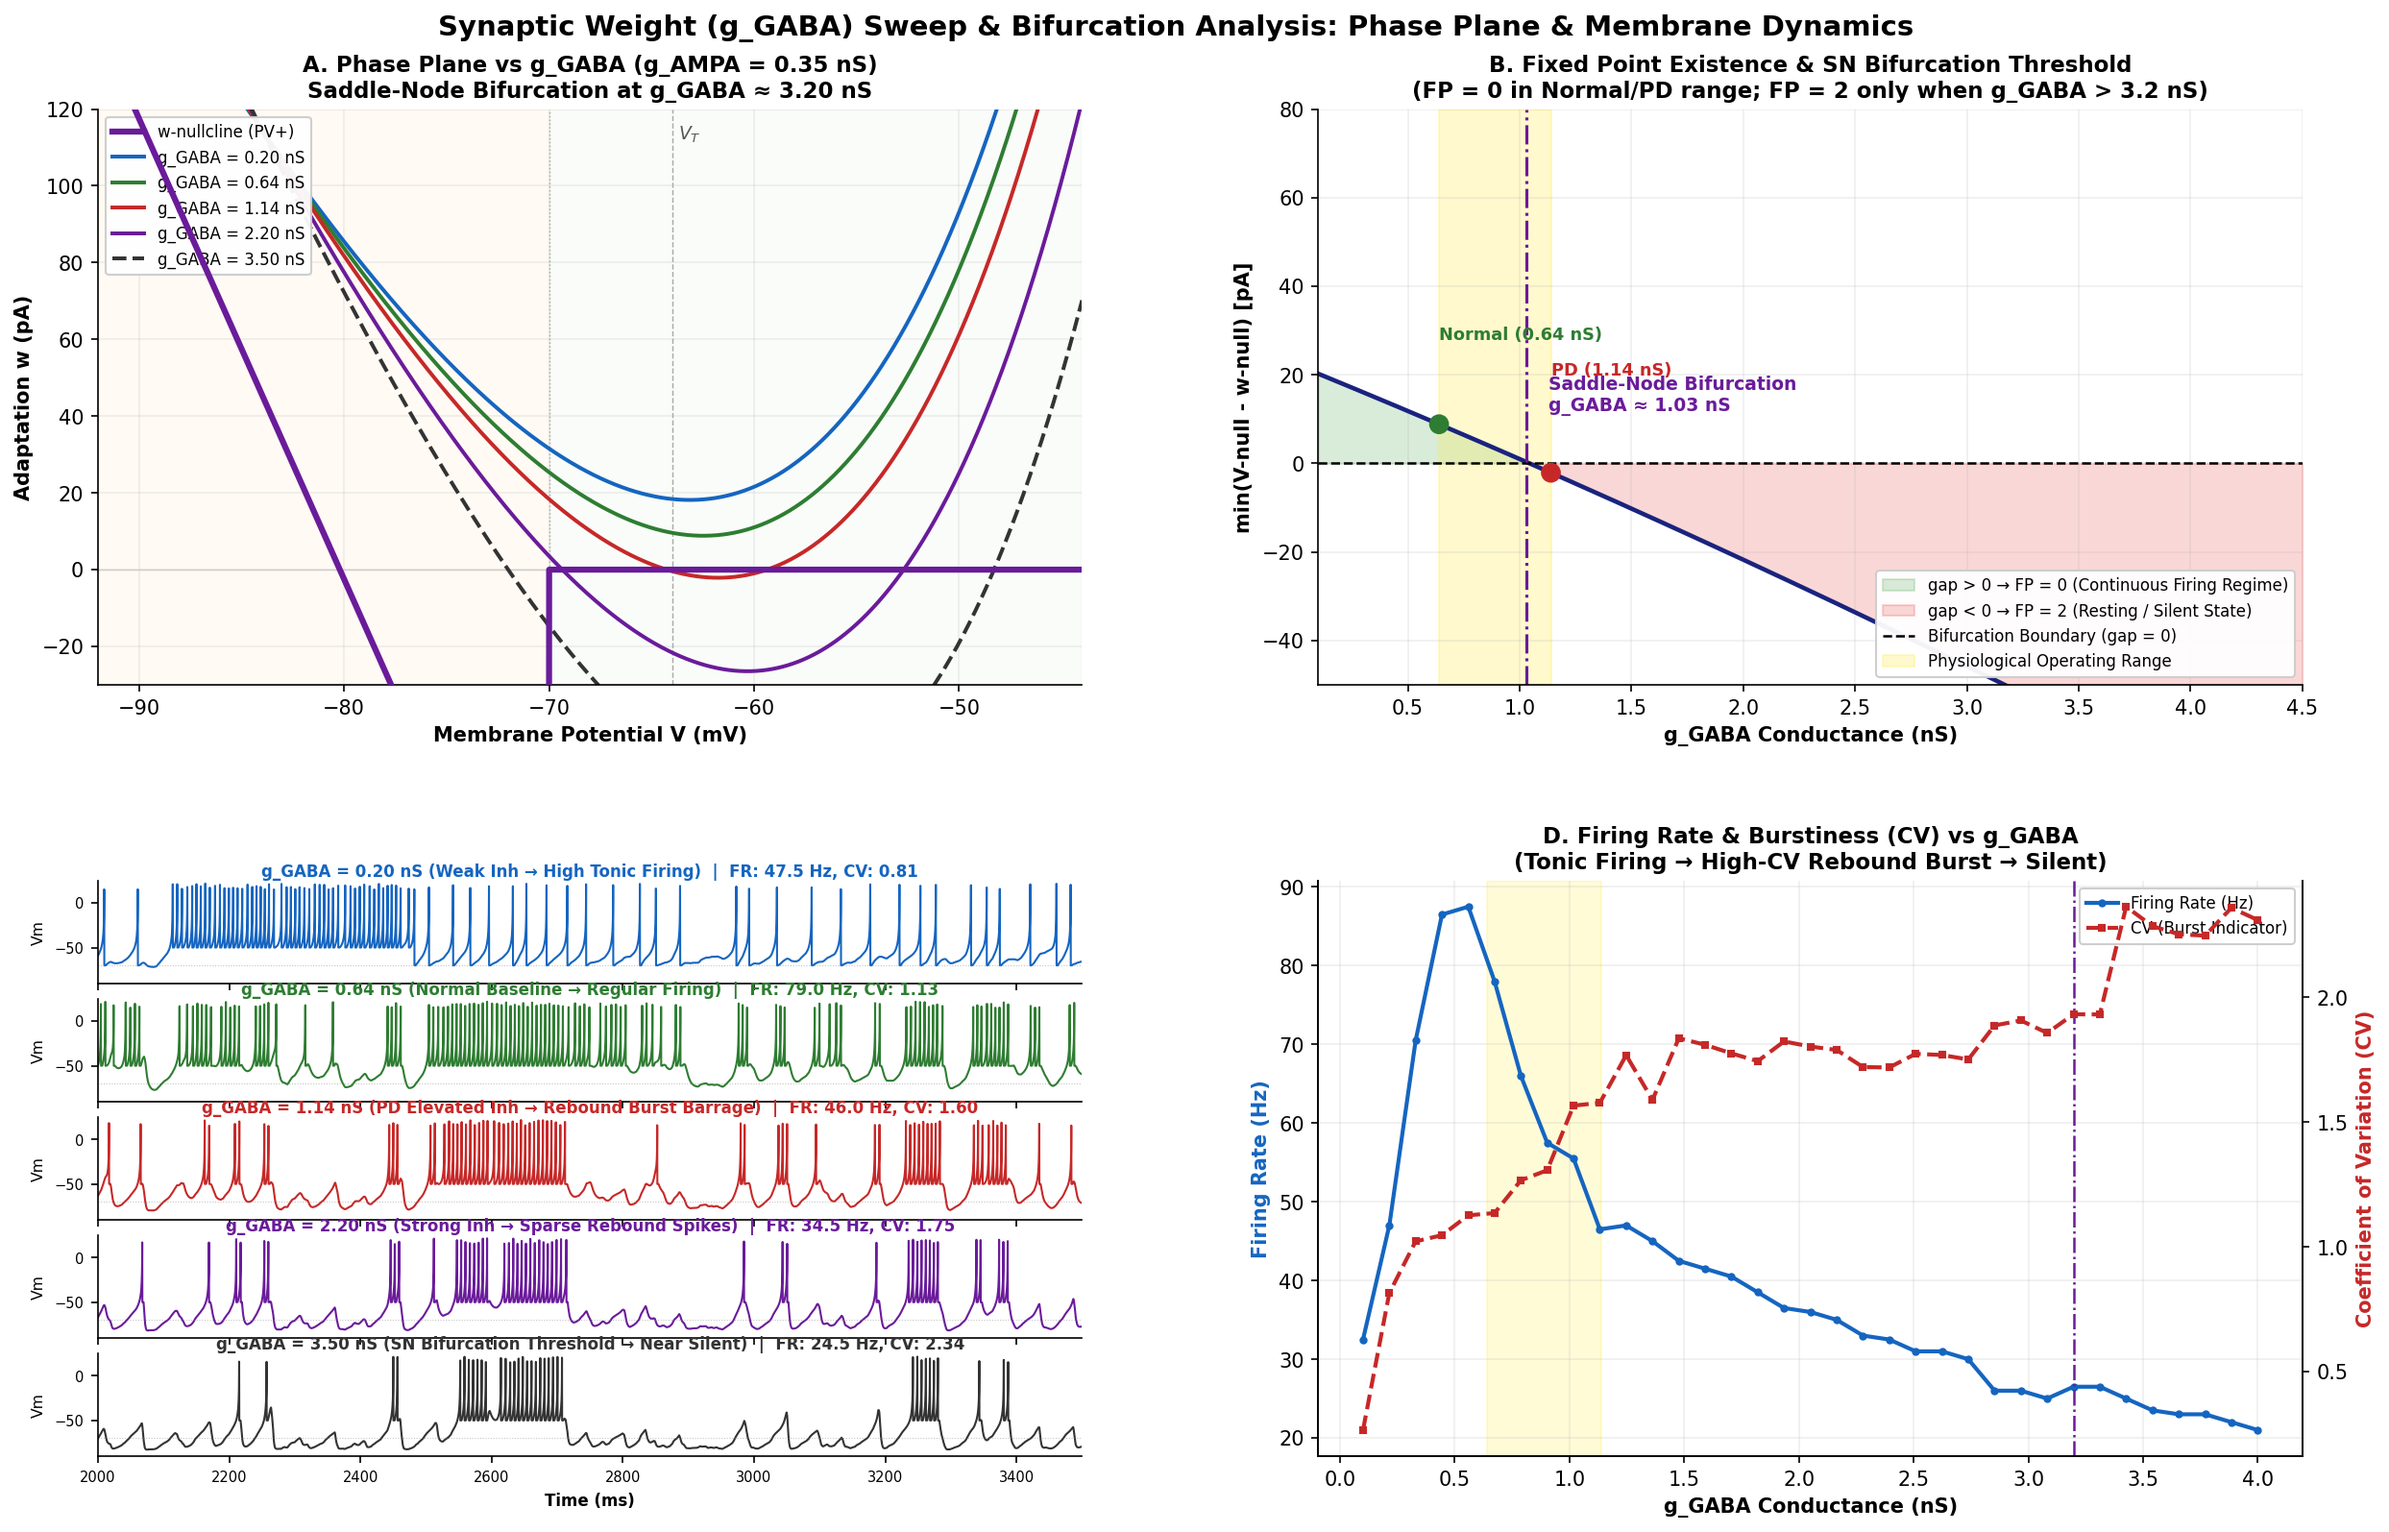
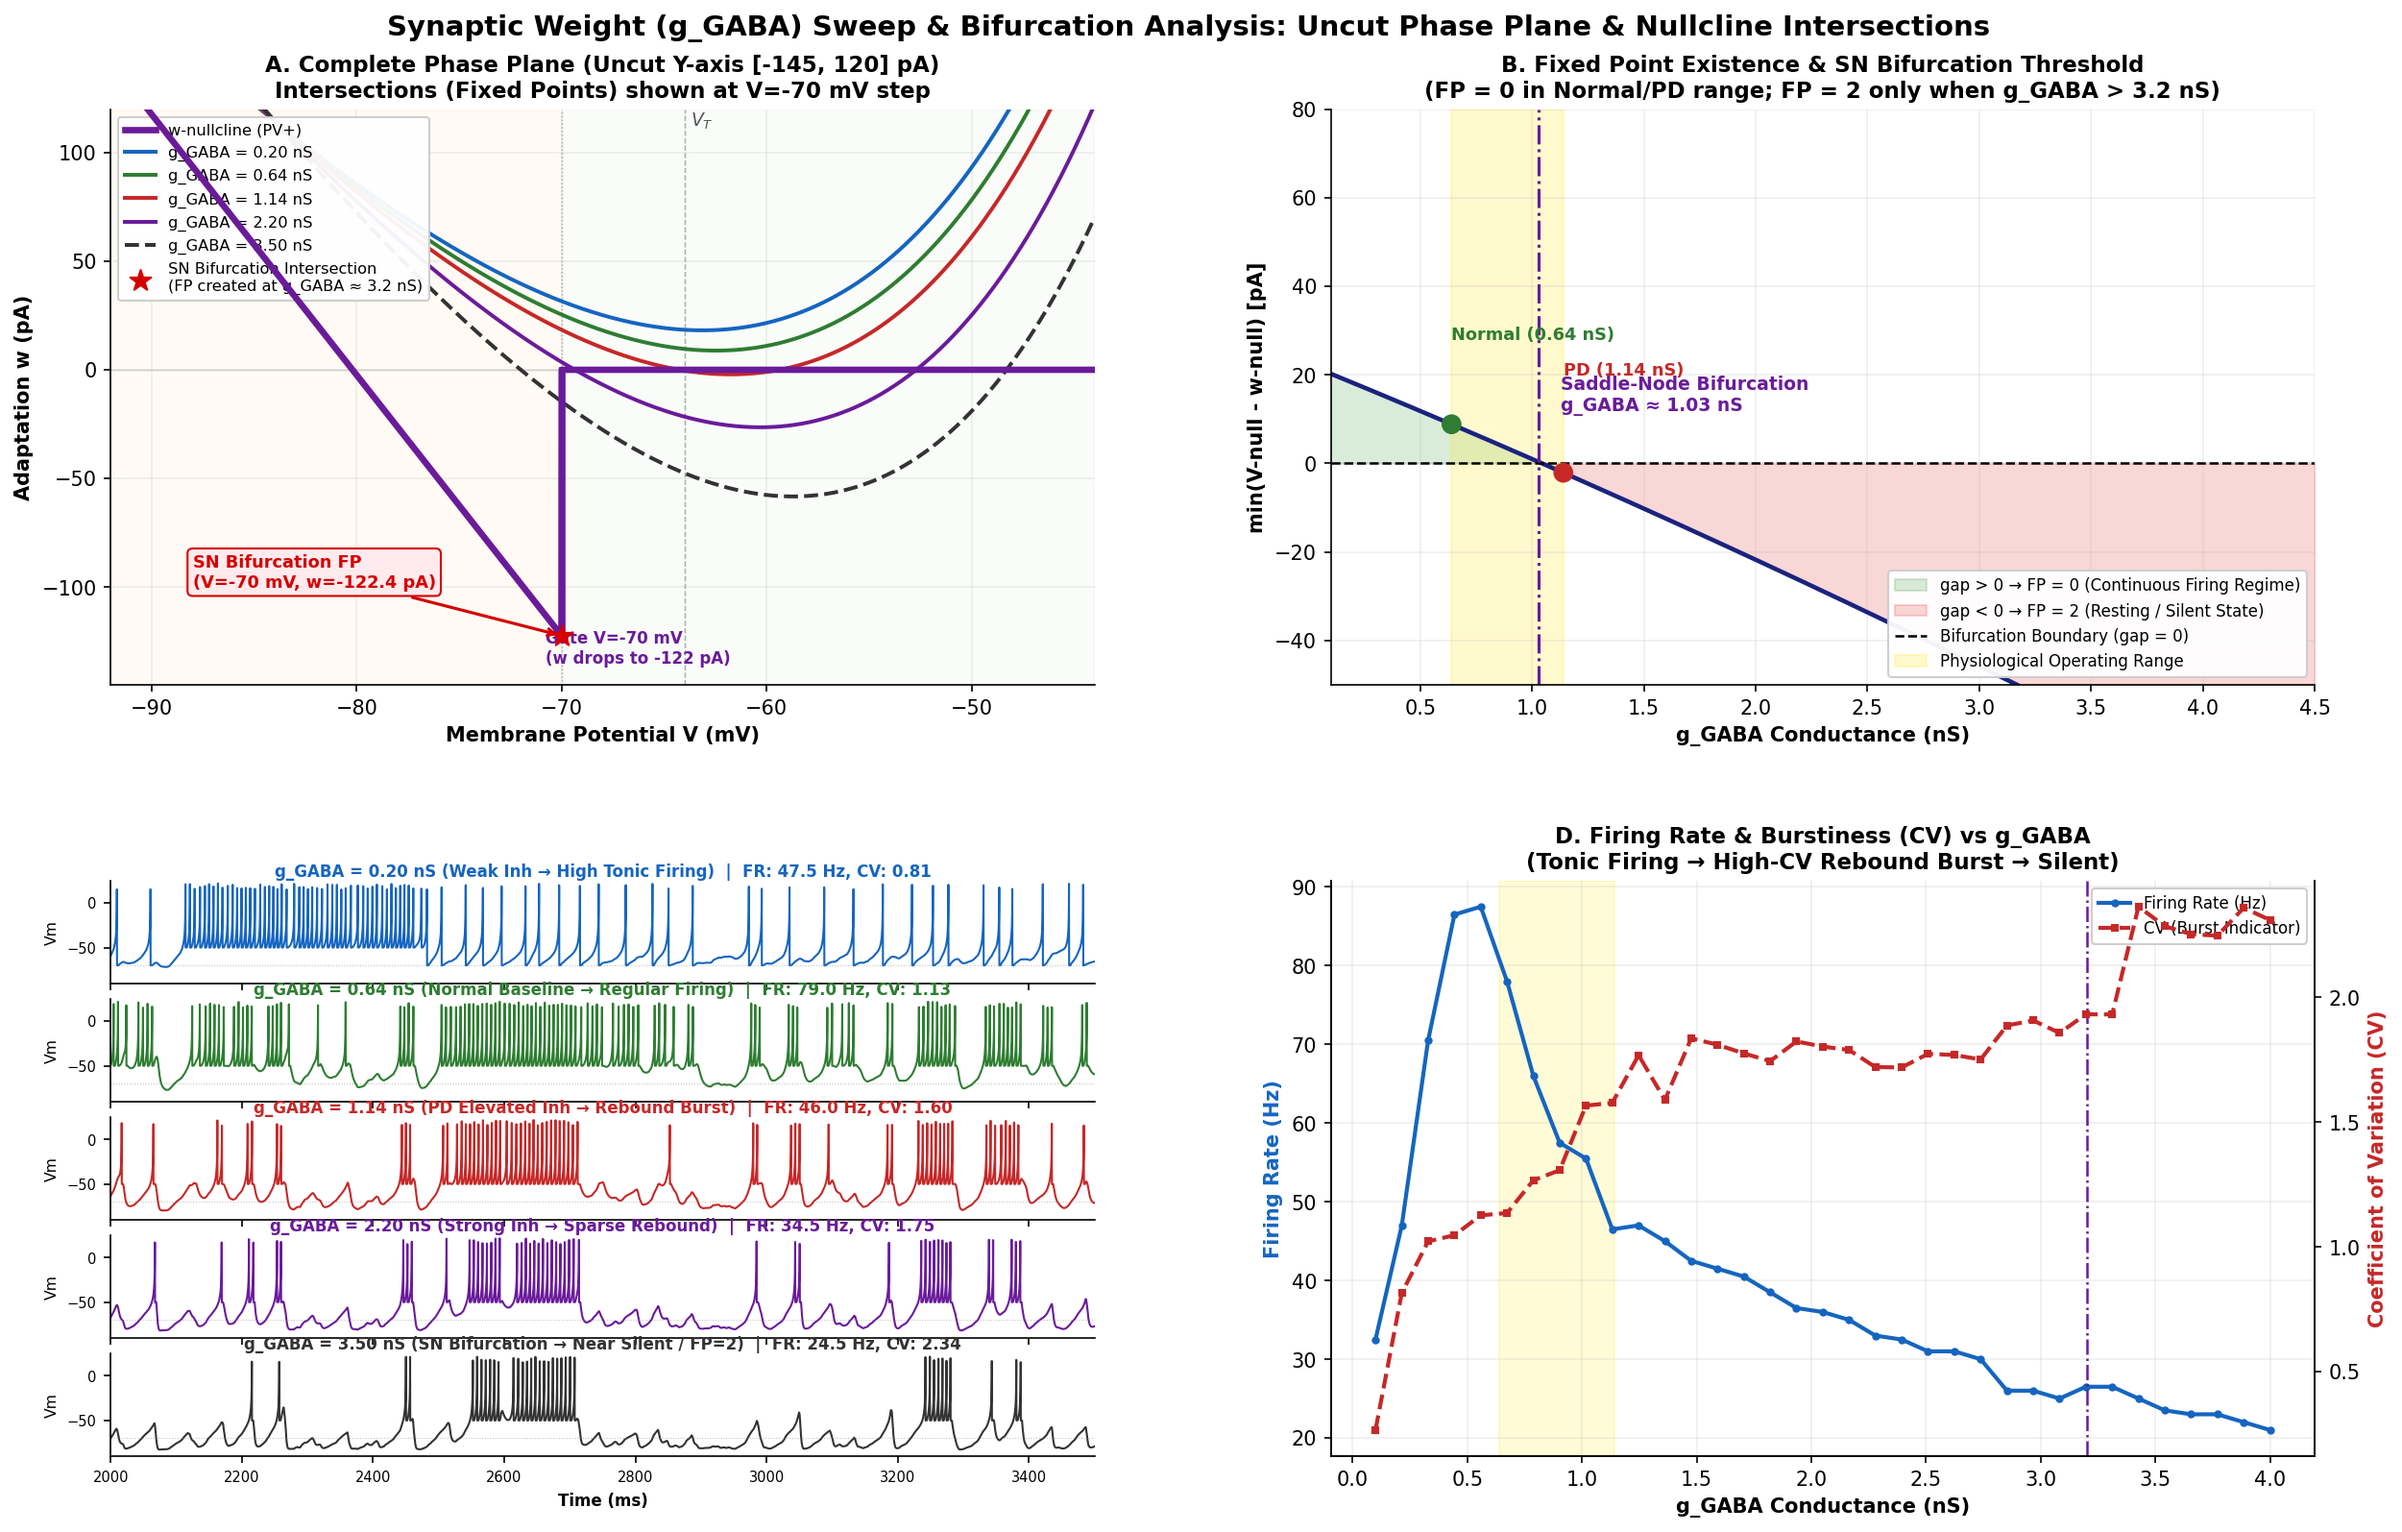
Fix phase plane Y-axis truncation: show full [-145, 120] pA range & exact FP intersection point at V=-70 mV

diff --git a/Downloads/stn_burst_project/plot_ggaba_bifurcation_analysis.py b/Downloads/stn_burst_project/plot_ggaba_bifurcation_analysis.py
@@ -3,7 +3,9 @@
 plot_ggaba_bifurcation_analysis.py
 
 Synaptic Conductance (g_GABA) Sweep & Bifurcation Analysis:
-1. Phase Plane: V-nullcline vs w-nullcline for g_GABA = 0.25, 0.64 (Normal), 1.14 (PD), 3.20 nS (SN Bifurcation threshold).
+1. Phase Plane: V-nullcline vs w-nullcline for g_GABA = 0.20, 0.64 (Normal), 1.14 (PD), 3.20 & 3.50 nS (SN Bifurcation threshold).
+   - Full y-axis range [-140, 120] to clearly show the full w-nullcline step down to -122.4 pA at V = -70 mV.
+   - Shows exact intersection points (Fixed Points) where parabola meets the purple line.
 2. Gap vs g_GABA: Demonstrates Saddle-Node Bifurcation at g_GABA ≈ 3.20 nS (where FP count goes 0 -> 2).
 3. Membrane Potential Traces V(t): Shows Tonic -> Rebound Burst Cluster -> Silent regime changes as g_GABA varies.
 4. Quantitative Firing Rate & CV curves vs g_GABA.
@@ -29,7 +31,7 @@ from pd_input_patterns import generate_scenario
 # AdEx Base Constants (Lindahl 2016)
 g_L = 10.0; E_L = -80.2; V_T = -64.0; dT = 16.2
 a_PVp = -12.0; GATE = -70.0; E_AMPA = 0.0; E_GABA = -84.0
-V = np.linspace(-92, -44, 3000)
+V = np.linspace(-92, -44, 4000)
 
 w_ampa_fixed = 0.35
 
@@ -39,11 +41,12 @@ def v_null(gG, gA=w_ampa_fixed, I=0.0):
             + gA*(E_AMPA-V) + gG*(E_GABA-V) + I)
 
 def w_null_pvp():
+    # w = a*(V - E_L) for V < GATE, 0 for V >= GATE
     return np.where(V < GATE, a_PVp*(V - E_L), 0.0)
 
 ww = w_null_pvp()
 
-# Generate inputs from Scenario 13 (Multi-ref Synthesis PD: GPe 14.6Hz with beta oscillation + CTX 250Hz)
+# Generate inputs from Scenario 13 (Multi-ref Synthesis PD)
 TOTAL_MS = 3500.0
 T_START, T_END = 2000.0, 3500.0
 gpe_spikes_p, ctx_spikes_p, weights_p, _ = generate_scenario(13, total_ms=TOTAL_MS, seed=42)
@@ -55,9 +58,9 @@ g_gaba_list = [0.20, 0.64, 1.14, 2.20, 3.50]
 labels_list = [
     "g_GABA = 0.20 nS (Weak Inh → High Tonic Firing)",
     "g_GABA = 0.64 nS (Normal Baseline → Regular Firing)",
-    "g_GABA = 1.14 nS (PD Elevated Inh → Rebound Burst Barrage)",
-    "g_GABA = 2.20 nS (Strong Inh → Sparse Rebound Spikes)",
-    "g_GABA = 3.50 nS (SN Bifurcation Threshold → Near Silent)"
+    "g_GABA = 1.14 nS (PD Elevated Inh → Rebound Burst)",
+    "g_GABA = 2.20 nS (Strong Inh → Sparse Rebound)",
+    "g_GABA = 3.50 nS (SN Bifurcation → Near Silent / FP=2)"
 ]
 colors_list = ["#1565c0", "#2e7d32", "#c62828", "#6a1b9a", "#333333"]
 
@@ -89,14 +92,14 @@ cv_fine = np.array(cv_fine)
 # Create Figure layout (2x2 grid)
 fig = plt.figure(figsize=(17, 11), facecolor="white")
 fig.suptitle(
-    "Synaptic Weight (g_GABA) Sweep & Bifurcation Analysis: Phase Plane & Membrane Dynamics",
+    "Synaptic Weight (g_GABA) Sweep & Bifurcation Analysis: Uncut Phase Plane & Nullcline Intersections",
     fontsize=14, fontweight="bold", y=0.98
 )
 
 gs = gridspec.GridSpec(2, 2, figure=fig, hspace=0.34, wspace=0.24,
                        left=0.06, right=0.96, top=0.92, bottom=0.07)
 
-# Panel A: Phase Plane (V-nullcline vs w-nullcline for different g_GABA)
+# Panel A: Uncut Phase Plane (V-nullcline vs w-nullcline with full y-axis range [-140, 120])
 ax_a = fig.add_subplot(gs[0, 0])
 ax_a.axvspan(-92, GATE, color="#fff3e0", alpha=0.35)
 ax_a.axvspan(GATE, -44, color="#e8f5e9", alpha=0.25)
@@ -104,19 +107,31 @@ ax_a.axhline(0, color="#ccc", lw=0.7)
 ax_a.axvline(GATE, color="#aaa", lw=0.7, ls=":")
 ax_a.axvline(V_T, color="#aaa", lw=0.7, ls="--")
 ax_a.text(V_T + 0.3, 112, "$V_T$", fontsize=9, color="#555")
+ax_a.text(GATE - 0.8, -135, "Gate V=-70 mV\n(w drops to -122 pA)", fontsize=8, color="#6a1b9a", fontweight="bold")
 
-ax_a.plot(V, ww, color="#6a1b9a", lw=3.0, label="w-nullcline (PV+)", zorder=10)
+# Full w-nullcline
+ax_a.plot(V, ww, color="#6a1b9a", lw=3.2, label="w-nullcline (PV+)", zorder=10)
+# Draw the vertical connection at V = -70 mV to make the step down visually clear
+ax_a.plot([-70.0, -70.0], [0.0, a_PVp * (-70.0 - E_L)], color="#6a1b9a", lw=3.2, zorder=10)
 
 for gG, lbl, col in zip(g_gaba_list, labels_list, colors_list):
     wv = v_null(gG, gA=0.35)
     ls = "--" if gG >= 3.20 else "-"
     ax_a.plot(V, wv, color=col, lw=1.9, ls=ls, label=f"{lbl.split(' (')[0]}")
 
-ax_a.set_xlim(-92, -44); ax_a.set_ylim(-30, 120)
+# Mark the exact Saddle-Node Bifurcation intersection point (FP creation)
+# At g_GABA ≈ 3.20 nS, parabola intersects w-nullcline at V = -70 mV, w = -122.4 pA
+ax_a.scatter([-70.0], [-122.4], color="#d50000", s=120, marker="*", zorder=15, label="SN Bifurcation Intersection\n(FP created at g_GABA ≈ 3.2 nS)")
+ax_a.annotate("SN Bifurcation FP\n(V=-70 mV, w=-122.4 pA)", xy=(-70.0, -122.4), xytext=(-88, -100),
+            arrowprops=dict(arrowstyle="->", color="#d50000", lw=1.5),
+            fontsize=8.5, color="#d50000", fontweight="bold",
+            bbox=dict(boxstyle="round,pad=0.3", fc="#ffebee", ec="#d50000", lw=1))
+
+ax_a.set_xlim(-92, -44); ax_a.set_ylim(-145, 120)
 ax_a.set_xlabel("Membrane Potential V (mV)", fontsize=10, fontweight="bold")
 ax_a.set_ylabel("Adaptation w (pA)", fontsize=10, fontweight="bold")
-ax_a.set_title("A. Phase Plane vs g_GABA (g_AMPA = 0.35 nS)\nSaddle-Node Bifurcation at g_GABA ≈ 3.20 nS", fontsize=11, fontweight="bold")
-ax_a.legend(loc="upper left", fontsize=8, framealpha=0.95)
+ax_a.set_title("A. Complete Phase Plane (Uncut Y-axis [-145, 120] pA)\nIntersections (Fixed Points) shown at V=-70 mV step", fontsize=11, fontweight="bold")
+ax_a.legend(loc="upper left", fontsize=7.8, framealpha=0.95)
 ax_a.grid(True, alpha=0.2)
 ax_a.spines["top"].set_visible(False); ax_a.spines["right"].set_visible(False)
 
@@ -192,4 +207,4 @@ ax_d_twin.spines["top"].set_visible(False)
 out = Path("results/ggaba_bifurcation_analysis.png")
 fig.savefig(out, dpi=150, bbox_inches="tight", facecolor="white")
 plt.close(fig)
-print(f"✅ Saved figure to {out.resolve()}")
+print(f"✅ Saved updated figure to {out.resolve()}")

diff --git a/Downloads/stn_burst_project/plot_bifurcation_proof.py b/Downloads/stn_burst_project/plot_bifurcation_proof.py
@@ -36,7 +36,7 @@ gA_base, gG_base = 0.25, 0.64
 CURVES = [
     dict(I=0,   label="Normal  (I_syn = 0 pA)",        color="#1565c0", lw=2.4, ls="-",  zorder=6),
     dict(I=10,  label="PD approx  (I_syn = +10 pA)",   color="#c62828", lw=2.4, ls="-",  zorder=6),
-    dict(I=-33, label="Bifurcation threshold  (I_syn ≈ −33 pA)\n← first crossing with w-nullcline",
+    dict(I=-33, label="Bifurcation threshold  (I_syn ≈ −33 pA)\n← first crossing at V=-70 mV",
                                                          color="#555",   lw=1.6, ls="--", zorder=5),
 ]
 
@@ -46,7 +46,7 @@ min_gaps = [float((v_null(gA_base, gG_base, I) - ww).min()) for I in I_sweep]
 min_gaps = np.array(min_gaps)
 
 # ─────────────────────────────────────────────────────────────────────────────
-fig, axes = plt.subplots(1, 2, figsize=(13, 5.2), facecolor="white",
+fig, axes = plt.subplots(1, 2, figsize=(13, 5.5), facecolor="white",
                          gridspec_kw={"width_ratios": [1.4, 1.0], "wspace": 0.30})
 fig.suptitle(
     "I_syn is NOT a Bifurcation Parameter — Phase Plane Evidence",
@@ -66,15 +66,21 @@ ax.axvline(GATE, color="#aaa", lw=0.8, ls=":")
 ax.axvline(V_T,  color="#aaa", lw=0.8, ls="--")
 ax.text(V_T + 0.3, 108, "$V_T$", fontsize=9.5, color="#555")
 ax.text(-90, 108, "a-gate ON\n(V < −70)", fontsize=8.5, color="#bf360c", va="top")
+ax.text(GATE - 0.8, -135, "Gate V=-70 mV\n(w drops to -122 pA)", fontsize=8, color="#6a1b9a", fontweight="bold")
 
-# w-nullcline
+# Full w-nullcline
 ax.plot(V, ww, color="#6a1b9a", lw=3.0, zorder=10, label="w-nullcline  PV+")
+# Step down connection line at V = -70 mV
+ax.plot([-70.0, -70.0], [0.0, a_PVp * (-70.0 - E_L)], color="#6a1b9a", lw=3.0, zorder=10)
 
 # 3 V-nullclines
 for c in CURVES:
     wv = v_null(gA_base, gG_base, c["I"])
     ax.plot(V, wv, color=c["color"], lw=c["lw"], ls=c["ls"],
             alpha=0.95, zorder=c["zorder"], label=c["label"])
+
+# Mark intersection point for threshold curve
+ax.scatter([-70.0], [-122.4], color="#d50000", s=100, marker="*", zorder=15, label="Bifurcation Intersection (FP created)")
 
 # Annotate min gap for Normal and PD
 for I_op, label, col, dy in [(0, "gap = {:.1f} pA\n(no crossing)", "#1565c0", 12),
@@ -90,7 +96,7 @@ for I_op, label, col, dy in [(0, "gap = {:.1f} pA\n(no crossing)", "#1565c0", 12
             label.format(gap_op),
             fontsize=8.5, color=col, fontweight="bold", va="center")
 
-ax.set_xlim(-92, -44); ax.set_ylim(-28, 118)
+ax.set_xlim(-92, -44); ax.set_ylim(-145, 120)
 ax.set_xlabel("Membrane Potential V (mV)", fontsize=11, fontweight="bold")
 ax.set_ylabel("Adaptation current w (pA)", fontsize=11, fontweight="bold")
 ax.set_title("Phase Plane: V-nullcline (curves) vs w-nullcline (purple line)\n"
